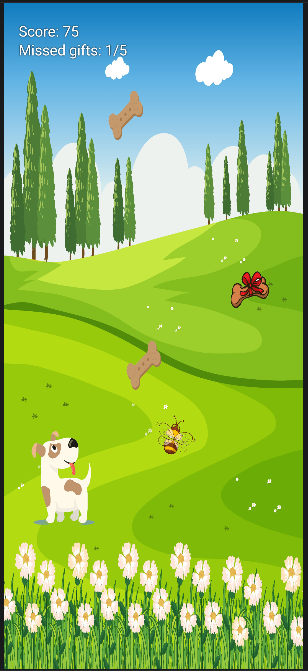
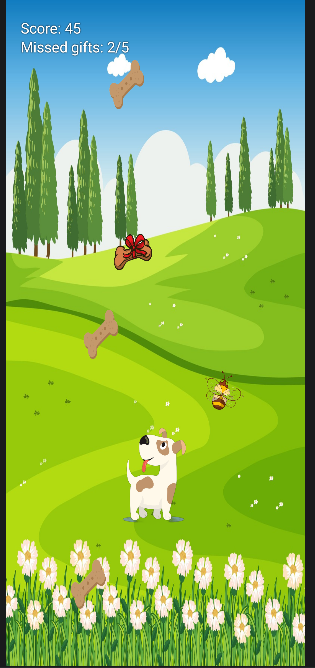
docs: update screenshots for the new design
Claude-Session: https://claude.ai/code/session_01CbkVhDPUpUazxbcn3A6mdH

diff --git a/README.md b/README.md
@@ -5,10 +5,10 @@ An Android game app built with **Kotlin** and **Jetpack Compose**. Players creat
 ## Screenshots
 
 <p align="center">
+  <img src="screenshots/start.png" alt="Start screen" width="22%">
   <img src="screenshots/main-menu.png" alt="Main menu" width="22%">
   <img src="screenshots/gameplay.png" alt="Gameplay" width="22%">
   <img src="screenshots/game-over.png" alt="Game over screen" width="22%">
-  <img src="screenshots/profile.png" alt="Profile screen" width="22%">
 </p>
 
 ## Gameplay
